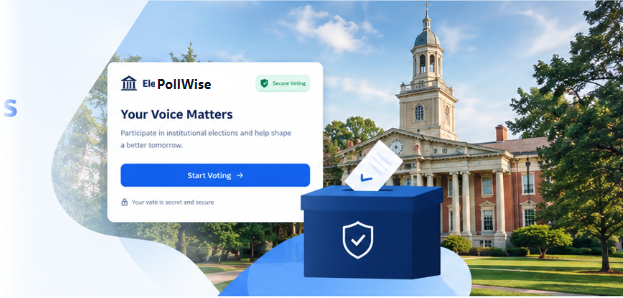
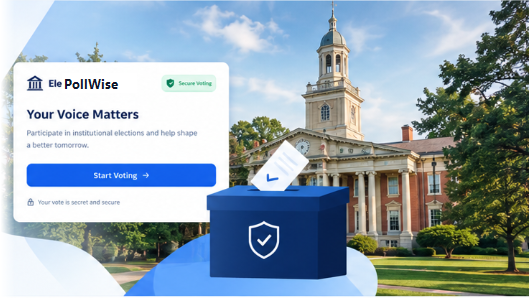
fix(landing): remove white curved shape and align card directly on unified background

diff --git a/frontend/src/pages/HomePage.tsx b/frontend/src/pages/HomePage.tsx
@@ -96,9 +96,9 @@ export const HomePage: React.FC = () => {
             </div>
           </div>
 
-          {/* Right Column: Authentic Visual Architecture (Full Card, S-Curve Blending Close to Caption) */}
-          <div className="w-full lg:w-[55%] xl:w-[58%] lg:-ml-6 xl:-ml-10 relative flex items-center justify-end pb-4 lg:pb-0">
-            <div className="relative w-full max-w-[640px]">
+          {/* Right Column: Clean Visual Architecture (Card, Campus, 3D Ballot Box) */}
+          <div className="w-full lg:w-[54%] xl:w-[56%] relative flex items-center justify-end pb-4 lg:pb-0">
+            <div className="relative w-full max-w-[560px]">
               <img
                 src="/hero-artwork-pollwise.png"
                 alt="PollWise Institutional Voting Platform Architecture"
@@ -114,8 +114,8 @@ export const HomePage: React.FC = () => {
                 className="absolute z-10 rounded-lg cursor-pointer transition hover:ring-2 hover:ring-blue-400 hover:ring-offset-2 flex items-center justify-center"
                 style={{
                   top: "54.5%",
-                  left: "19.5%",
-                  width: "29%",
+                  left: "5.5%",
+                  width: "34%",
                   height: "7.5%",
                 }}
               >
